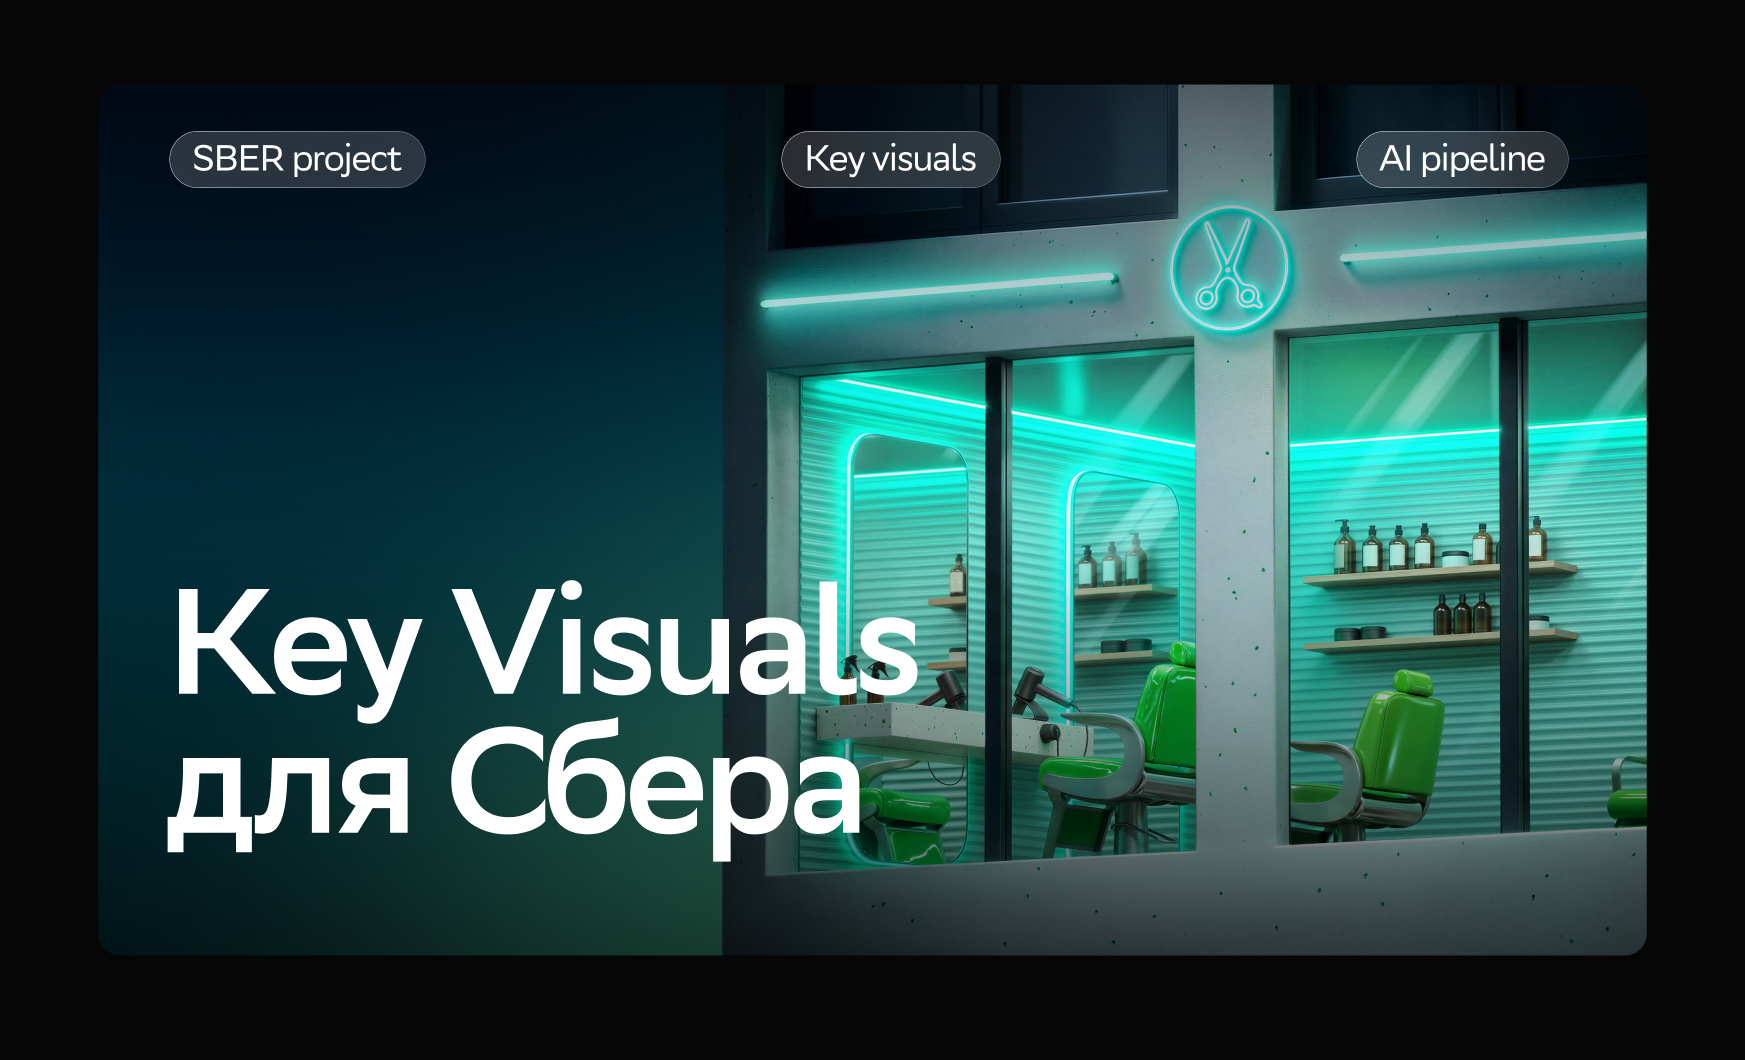
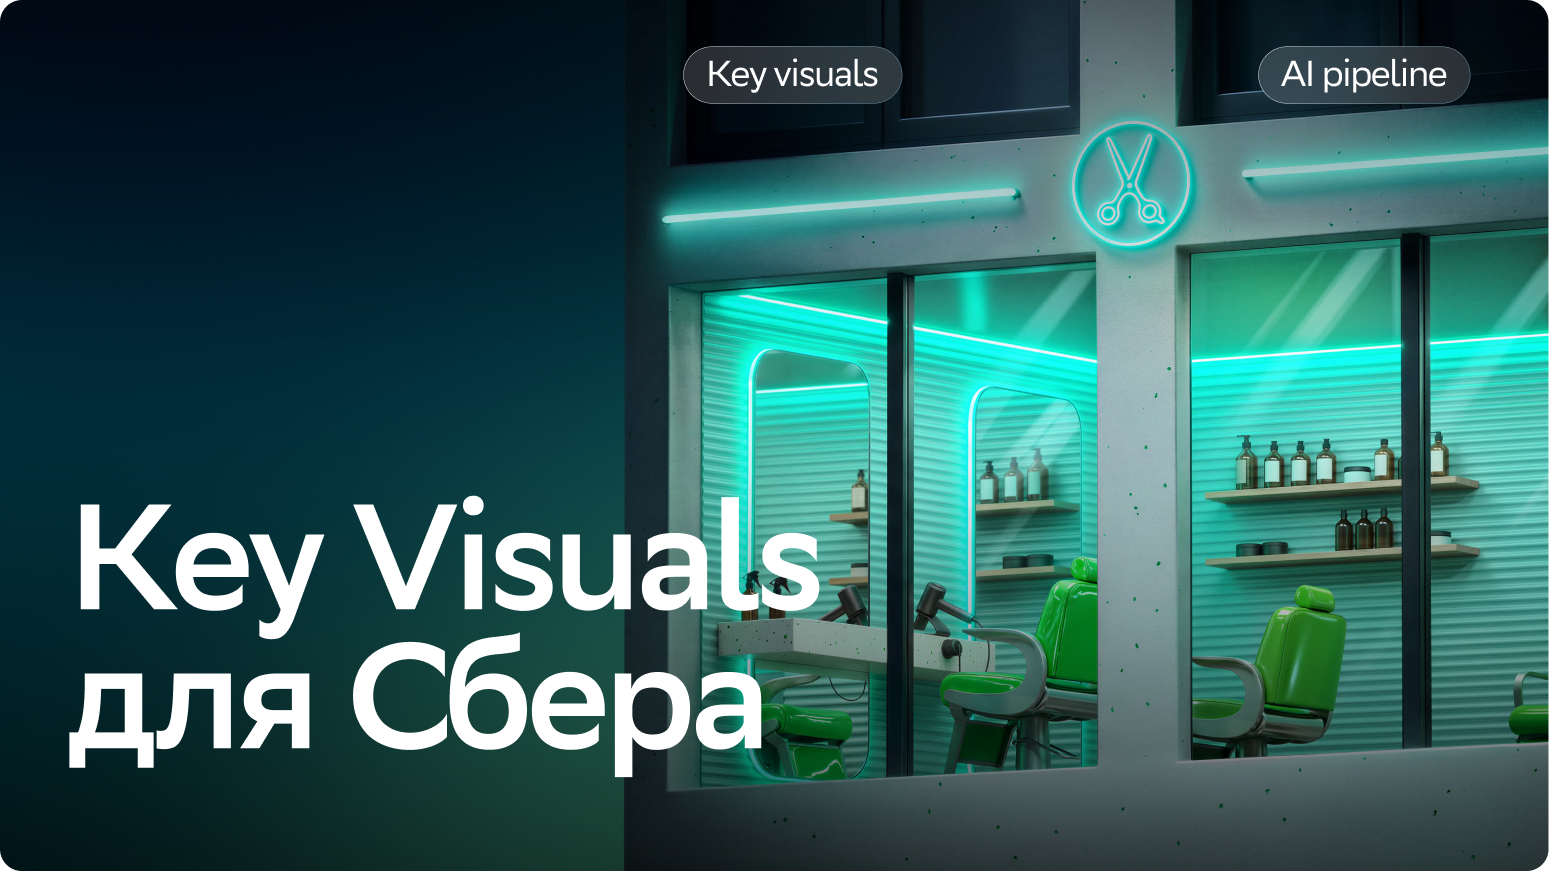
Update portfolio site content

diff --git a/components/project-card.tsx b/components/project-card.tsx
@@ -1,23 +1,104 @@
+"use client";
+
+import { FormEvent, useState } from "react";
 import Link from "next/link";
+import { useRouter } from "next/navigation";
 import type { Project } from "@/data/projects";
 
-export function ProjectCard({ project }: { project: Project }) {
-  return (
-    <Link
-      href={`/work/${project.slug}`}
-      className="group block overflow-hidden rounded-3xl border border-white/10 bg-white/5 hover:bg-white/10 transition"
-    >
-      <div className="aspect-[16/10] w-full overflow-hidden">
+const SBER_SLUG = "sber-key-visuals";
+const NDA_CYAN = "#55eaff";
+
+type ProjectCardProps = {
+  project: Project;
+  withNdaGate?: boolean;
+};
+
+export function ProjectCard({ project, withNdaGate = false }: ProjectCardProps) {
+  const router = useRouter();
+  const [isPasswordOpen, setIsPasswordOpen] = useState(false);
+  const [password, setPassword] = useState("");
+  const [error, setError] = useState("");
+
+  const isNdaCase = withNdaGate && project.slug === SBER_SLUG;
+  const href = `/work/${project.slug}`;
+
+  const openCase = () => {
+    router.push(href);
+  };
+
+  const closePassword = () => {
+    setIsPasswordOpen(false);
+    setPassword("");
+    setError("");
+  };
+
+  const checkPassword = (value: string) => {
+    setPassword(value);
+    setError("");
+
+    if (value.trim() === "123") {
+      openCase();
+    }
+  };
+
+  const handleSubmit = (event: FormEvent<HTMLFormElement>) => {
+    event.preventDefault();
+
+    if (password.trim() === "123") {
+      openCase();
+      return;
+    }
+
+    setError("Неверный пароль");
+  };
+
+  const ndaBadge = isNdaCase ? (
+      <div
+        data-nda-badge
+        className="absolute left-[5%] top-[5.4%] z-10 aspect-[222/73] w-[25.8%] min-w-[108px] max-w-[190px] overflow-hidden rounded-[16px] border bg-[#073747]/70 text-white shadow-[inset_0_0_20px_rgba(40,242,220,0.18),0_0_18px_rgba(40,242,220,0.16)] backdrop-blur-md"
+        style={{ borderColor: NDA_CYAN }}
+      >
+        <svg
+          aria-hidden="true"
+          viewBox="0 0 222 73"
+          className="absolute inset-0 h-full w-full"
+          preserveAspectRatio="xMidYMid meet"
+        >
+          <path
+            d="M34 31V26C34 20 38.9 16 46 16C53.1 16 58 20 58 26V31"
+            fill="none"
+            stroke="white"
+            strokeWidth="4.5"
+            strokeLinecap="round"
+          />
+          <rect x="30" y="31" width="32" height="28" rx="4" fill="white" />
+          <rect x="82" y="14" width="2" height="45" rx="1" fill="white" opacity="0.75" />
+          <text x="109" y="35" fill="white" fontSize="24" fontWeight="700" fontFamily="Arial, sans-serif">
+            NDA
+          </text>
+          <text x="109" y="56" fill="white" opacity="0.7" fontSize="17" fontFamily="Arial, sans-serif">
+            by request
+          </text>
+        </svg>
+      </div>
+  ) : null;
+
+  const cardContent = (
+    <>
+      <div className={`relative w-full overflow-hidden ${isNdaCase ? "aspect-[1549/872]" : "aspect-[16/10]"}`}>
+        {ndaBadge}
         <img
           src={project.coverImage}
           alt={project.title}
           loading="lazy"
           decoding="async"
-          className="h-full w-full object-cover group-hover:scale-[1.02] transition"
+          className={`h-full w-full object-cover transition duration-300 group-hover:scale-[1.02] ${
+            isPasswordOpen ? "scale-[1.02] blur-[2px] brightness-50" : ""
+          }`}
         />
       </div>
 
-      <div className="p-5">
+      <div className={`p-5 text-left transition duration-300 ${isPasswordOpen ? "blur-[1px] brightness-50" : ""}`}>
         <div className="flex items-center justify-between gap-4">
           <h3 className="text-lg font-medium">{project.title}</h3>
           <span className="text-xs text-white/60">{project.year}</span>
@@ -26,17 +107,134 @@ export function ProjectCard({ project }: { project: Project }) {
         <p className="mt-2 text-sm text-white/70">{project.shortDescription}</p>
 
         <div className="mt-3 flex flex-wrap gap-2">
-          {project.tags.slice(0, 4).map((t) => (
+          {project.tags.slice(0, 4).map((tag) => (
             <span
-              key={t}
+              key={tag}
               className="rounded-full border border-white/10 bg-black/20 px-3 py-1 text-xs text-white/70"
             >
-              {t}
+              {tag}
             </span>
           ))}
         </div>
       </div>
+    </>
+  );
+
+  if (isNdaCase) {
+    return (
+      <div className="relative overflow-hidden rounded-3xl border border-white/10 bg-white/5 transition hover:bg-white/10">
+        <button
+          type="button"
+          data-project-card={project.slug}
+          onClick={() => {
+            setIsPasswordOpen(true);
+            setError("");
+          }}
+          className="group block w-full"
+        >
+          {cardContent}
+        </button>
+
+        {isPasswordOpen ? (
+          <div
+            className="absolute inset-0 z-20 flex items-center justify-center bg-black/48 px-5 backdrop-blur-[2px]"
+            role="dialog"
+            aria-modal="true"
+            aria-labelledby="nda-password-title"
+            onClick={closePassword}
+          >
+            <form
+              onSubmit={handleSubmit}
+              onClick={(event) => event.stopPropagation()}
+              className="relative w-[352px] max-w-full rounded-[22px] border bg-[#0b5e68]/45 px-[43px] pb-[20px] pt-[21px] text-center text-white shadow-[inset_0_0_42px_rgba(85,234,255,0.22),0_0_44px_rgba(85,234,255,0.28),0_22px_70px_rgba(0,0,0,0.48)] backdrop-blur-[14px]"
+              style={{ borderColor: NDA_CYAN }}
+            >
+              <div
+                className="mx-auto grid h-[57px] w-[57px] place-items-center rounded-full border bg-[#0b7684]/[0.32] shadow-[0_0_26px_rgba(85,234,255,0.64)]"
+                style={{ borderColor: NDA_CYAN }}
+              >
+                <svg
+                  aria-hidden="true"
+                  viewBox="0 0 34 34"
+                  className="h-[31px] w-[31px]"
+                >
+                  <path
+                    d="M10 15V12.2C10 7.9 12.8 5.2 17 5.2C21.2 5.2 24 7.9 24 12.2V15"
+                    fill="none"
+                    stroke="white"
+                    strokeWidth="3"
+                    strokeLinecap="round"
+                  />
+                  <rect x="8.5" y="14" width="17" height="15" rx="3" fill="white" />
+                  <circle cx="17" cy="20.2" r="1.8" fill="#0b5e68" />
+                  <path d="M17 21.7V25" stroke="#0b5e68" strokeWidth="1.8" strokeLinecap="round" />
+                </svg>
+              </div>
+
+              <h2 id="nda-password-title" className="mt-[17px] text-[20px] font-semibold leading-none text-white">
+                Введите пароль
+              </h2>
+              <p className="mt-[8px] text-[13px] leading-none text-white/[0.58]">Этот кейс доступен по запросу</p>
+
+              <label className="relative mt-[15px] block">
+                <input
+                  type="password"
+                  value={password}
+                  onChange={(event) => checkPassword(event.target.value)}
+                  autoFocus
+                  aria-label="Пароль"
+                  className="h-[45px] w-full rounded-[12px] border bg-[#063f4b]/[0.28] px-[18px] pr-[48px] text-left text-[22px] leading-none text-white caret-[#55eaff] outline-none transition placeholder:text-white/35 focus:bg-[#063f4b]/40"
+                  style={{ borderColor: NDA_CYAN }}
+                />
+                <svg
+                  aria-hidden="true"
+                  viewBox="0 0 24 16"
+                  className="absolute right-[17px] top-1/2 h-[16px] w-[24px] -translate-y-1/2 text-white/60"
+                >
+                  <path
+                    d="M2 8C4.6 3.7 7.8 2 12 2C16.2 2 19.4 3.7 22 8C19.4 12.3 16.2 14 12 14C7.8 14 4.6 12.3 2 8Z"
+                    fill="none"
+                    stroke="currentColor"
+                    strokeWidth="1.6"
+                    strokeLinejoin="round"
+                  />
+                  <circle cx="12" cy="8" r="2.8" fill="none" stroke="currentColor" strokeWidth="1.6" />
+                </svg>
+              </label>
+
+              {error ? <p className="mt-3 text-sm text-red-200">{error}</p> : null}
+
+              <button
+                type="submit"
+                className="relative mt-[14px] h-[45px] w-full cursor-pointer overflow-hidden rounded-[18px] border text-[15px] font-medium text-white shadow-[inset_0_1px_0_rgba(255,255,255,0.5),inset_0_13px_20px_rgba(255,255,255,0.13),inset_0_-16px_24px_rgba(0,72,82,0.32),0_0_30px_rgba(85,234,255,0.5)] transition hover:brightness-110"
+                style={{
+                  background:
+                    "radial-gradient(ellipse at 10% 50%, rgba(125,255,238,0.72) 0%, rgba(66,231,218,0.46) 34%, transparent 64%), radial-gradient(ellipse at 90% 50%, rgba(125,255,238,0.72) 0%, rgba(66,231,218,0.46) 34%, transparent 64%), linear-gradient(180deg, rgba(80,235,219,0.9) 0%, rgba(30,204,190,0.9) 100%)",
+                  borderColor: "rgba(85,234,255,0.58)",
+                }}
+              >
+                <span
+                  className="pointer-events-none absolute inset-x-[24px] top-0 h-px bg-white/60"
+                  aria-hidden="true"
+                />
+                <span className="pointer-events-none absolute -left-9 top-1/2 h-[76px] w-[112px] -translate-y-1/2 rounded-full bg-[#89fff0]/35 blur-xl" aria-hidden="true" />
+                <span className="pointer-events-none absolute -right-9 top-1/2 h-[76px] w-[112px] -translate-y-1/2 rounded-full bg-[#89fff0]/35 blur-xl" aria-hidden="true" />
+                <span className="pointer-events-none absolute left-1/2 top-1/2 h-[39px] w-[146px] -translate-x-1/2 -translate-y-1/2 rounded-full bg-[#043b48]/65 blur-md" aria-hidden="true" />
+                <span className="relative">Ввести</span>
+              </button>
+            </form>
+          </div>
+        ) : null}
+      </div>
+    );
+  }
+
+  return (
+    <Link
+      href={href}
+      className="group block overflow-hidden rounded-3xl border border-white/10 bg-white/5 transition hover:bg-white/10"
+    >
+      {cardContent}
     </Link>
   );
 }
-

diff --git a/app/work/[slug]/page.tsx b/app/work/[slug]/page.tsx
@@ -30,14 +30,21 @@ export default function ProjectPage({ params }: ProjectPageProps) {
     .sort((a, b) => a.localeCompare(b, 'ru', { numeric: true }))
     .map((file) => `/wallpapers/${encodeURIComponent(file)}`);
   const sberDir = path.join(process.cwd(), 'public', 'sber');
+  const sberFiles = fs.existsSync(sberDir) ? fs.readdirSync(sberDir) : [];
+  const hasSberFirstBlockReplacement = sberFiles.some((file) => /^12\s*block/i.test(file));
   const sberImages = fs.existsSync(sberDir)
-    ? fs
-        .readdirSync(sberDir)
+    ? sberFiles
         .filter((file) => /\.(png|jpe?g|webp|gif|mp4|webm|mov)$/i.test(file))
+        .filter((file) => !(hasSberFirstBlockReplacement && /^1-block/i.test(file)))
         .sort((a, b) => {
           const getOrder = (file: string) => {
             const blockMatch = file.match(/^(\d+)-block/i);
+            const firstBlockReplacementMatch = file.match(/^12\s*block/i);
             const animationMatch = file.match(/^sber\s*(\d+)\s*anim/i);
+
+            if (firstBlockReplacementMatch) {
+              return 1;
+            }
 
             if (blockMatch) {
               return Number(blockMatch[1]);
@@ -53,7 +60,16 @@ export default function ProjectPage({ params }: ProjectPageProps) {
           const orderDiff = getOrder(a) - getOrder(b);
           return orderDiff || a.localeCompare(b, 'ru', { numeric: true });
         })
-        .map((file) => `/sber/${encodeURIComponent(file)}`)
+        .map((file) => {
+          const imagePath = `/sber/${encodeURIComponent(file)}`;
+
+          if (/^4-block/i.test(file) || /^12\s*block/i.test(file)) {
+            const version = fs.statSync(path.join(sberDir, file)).mtimeMs;
+            return `${imagePath}?v=${Math.round(version)}`;
+          }
+
+          return imagePath;
+        })
     : [];
   const isSberCase = decodedSlug === 'sber-key-visuals';
   const isWinlineCase = decodedSlug === 'kv-winline';
@@ -472,7 +488,7 @@ export default function ProjectPage({ params }: ProjectPageProps) {
 
   return (
     <article className="space-y-10">
-      <Link href="/work" className="inline-flex text-sm text-white/70 hover:text-white">
+      <Link href="/" className="inline-flex text-sm text-white/70 hover:text-white">
         ← Назад к кейсам
       </Link>
 

diff --git a/data/projects.ts b/data/projects.ts
@@ -37,7 +37,7 @@ export const projects = [
   role: ["Key Visual", "AI pipeline", "Art direction"],
   tags: ["KV System", "Campaign", "Brand"],
   shortDescription: "Разработка key visuals для рекламных кампаний Сбер Бизнеса и Сбер Про.",
-  coverImage: "/sber/1-block.png",
+  coverImage: "/sber/1-block.png?v=1789317574",
   sections: [],
   problem: "Подготовить визуальную концепцию, которую можно масштабировать под разные digital-форматы бренда.",
   approach: "Собран AI-пайплайн для генерации сцены, поиска композиции и последующей ретуши key visual.",

diff --git a/app/page.tsx b/app/page.tsx
@@ -96,7 +96,7 @@ export default function HomePage() {
                 transition: { duration: 0.3 },
               }}
             >
-              <ProjectCard project={project} />
+              <ProjectCard project={project} withNdaGate />
             </motion.div>
           ))}
         </motion.div>
